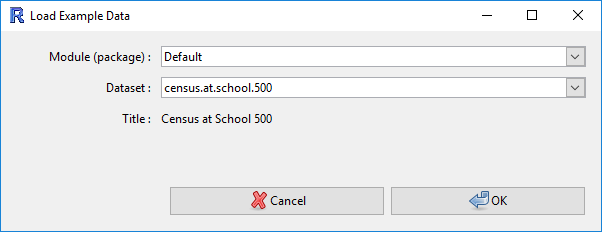
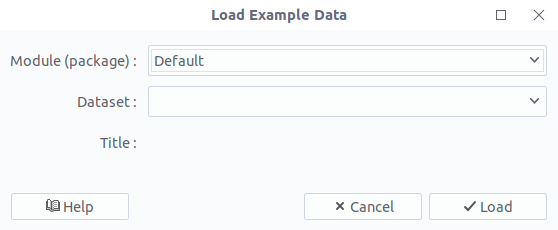
first graphs and plot1var

diff --git a/assets/scss/_styles_docs.scss b/assets/scss/_styles_docs.scss
@@ -1,30 +1,34 @@
 figure {
-    display: flex;
-    flex-direction: column;
-    align-items: center;
+  display: flex;
+  flex-direction: column;
+  align-items: center;
+
+  img {
+    box-shadow: 0px 5px 10px #00000040;
+  }
 }
 
 .breadcrumb-nav {
-    display: flex !important;
-    justify-content: space-between;
+  display: flex !important;
+  justify-content: space-between;
 
-    .version-toggle {
-        .toggle-desktop {
-            // border-bottom: solid 2px $secondary;
-            font-weight: bold;
-        }
-        .toggle-lite {
-            color: gray;
-            &:hover {
-                color: $secondary;
-            }
-        }
+  .version-toggle {
+    .toggle-desktop {
+      // border-bottom: solid 2px $secondary;
+      font-weight: bold;
     }
+    .toggle-lite {
+      color: gray;
+      &:hover {
+        color: $secondary;
+      }
+    }
+  }
 }
 
 .version--desktop {
-    display: initial;
+  display: initial;
 }
 .version--lite {
-    display: none;
+  display: none;
 }

diff --git a/layouts/shortcodes/nextpage.html b/layouts/shortcodes/nextpage.html
@@ -1,0 +1,16 @@
+{{ $scratch := newScratch }}
+    {{ range $index, $element := $.Page.CurrentSection.Pages.ByWeight }}
+        {{ if (eq $.Page.Params.weight .Params.weight) }}
+            {{ $scratch.Set "nextIndex" (add 1 $index)}}
+        {{ end }}
+    {{ end }}
+{{ with index $.Page.CurrentSection.Pages.ByWeight ($scratch.Get "nextIndex") }}
+<hr />
+<div class="text-right">
+    <a href="{{ .Permalink }}" class="btn btn-secondary">
+        {{ .Params.title | title }}
+        <span style="display:inline-block;width:0.5em;"></span>
+        <i class="fas fa-arrow-circle-right"></i>
+    </a>
+</div>
+{{ end}}

diff --git a/content/docs/basics/load-data/index.md b/content/docs/basics/load-data/index.md
@@ -13,7 +13,7 @@ iNZight lets you import your own data, either stored locally on your machine or 
 
 ### Loading your own data
 
-If you have a data set you would like to load into iNZight, go to the __File__ menu
+If you have a data set you would like to load into iNZight, go to the **File** menu
 and select {{% inzversion desktop="__Import Data__." lite="__Import Dataset__." %}} This will open the following {{% inzversion desktop="window:" lite="screen:" %}}
 
 {{% inzdesktop %}}
@@ -25,13 +25,11 @@ and select {{% inzversion desktop="__Import Data__." lite="__Import Dataset__." 
 
 Use the **Browse** button to search for a file on your computer, or provide a URL to a file on a remote server. Once you have chosen your file, iNZight will display a preview of your data. If it looks OK, click {{% inzversion desktop="__Import__" lite="__Import file from URL__" %}} to load the data into iNZight.
 
-
-
 ### Using an example dataset
 
-To make it even easier to get started with iNZight and learn data techniques, we have provided some example datasets for you to load quickly.These  are used in the examples throughout the website so you can easily follow along.
+To make it even easier to get started with iNZight and learn data techniques, we have provided some example datasets for you to load quickly.These are used in the examples throughout the website so you can easily follow along.
 
-To load an example data set, go to the __File__ menu and click {{% inzversion desktop="__Example data ...__." lite="__Dataset Examples__." %}} You'll be presented with this window:
+To load an example data set, go to the **File** menu and click {{% inzversion desktop="__Example data ...__." lite="__Dataset Examples__." %}} You'll be presented with this window:
 
 {{% inzdesktop %}}
 {{< figure src="example_data.png" alt="Load example data into iNZight" >}}
@@ -39,8 +37,7 @@ To load an example data set, go to the __File__ menu and click {{% inzversion de
 {{% inzlite %}}
 {{< figure src="example_data_lite.png" alt="Load example data into iNZight" >}}
 {{% /inzlite %}}
-In the example above, we've selected the "Census at School 500" dataset from the Default iNZight module. We will be using this dataset a lot for many of our examples. Click {{% inzversion desktop="__OK__" lite="__Select set__" %}} to load the data into iNZight. {{% inzversion lite="You can now head to __Visualize__ to start creating graphs." %}}
-
+In the example above, we've selected the "Census at School 500" dataset from the Default iNZight module. We will be using this dataset a lot for many of our examples. Click {{% inzversion desktop="__Load__" lite="__Select set__" %}} to load the data into iNZight. {{% inzversion lite="You can now head to __Visualize__ to start creating graphs." %}}
 
 ## Creating your first graph
 
@@ -48,9 +45,9 @@ In the example above, we've selected the "Census at School 500" dataset from the
 Once the data is loaded, iNZight will display the spreadsheet in the left-hand panel of the main window, like this:
 {{< figure src="inzight_cas.png" alt="iNZight with the Census at School 500 data loaded" width="800" >}}
 
-{{% note "If you load a dataset with too many variables and/or rows, iNZight only displays a list of variable names. Click __Dataset__ > __View full dataset__ to get a spreadsheet view in this case." %}}
+{{% note "iNZight only displays a subset of rows at a time, and you can move up and down the dataset using the 'Up' and 'Down' buttons below the spreadsheet. If you want to load the full spreadsheet,  __Dataset__ > __View full dataset__ will give you one in a new windows for you to explore." %}}
 
-Now you're ready to create your first graph! The variable names at the top of the spreadsheet view are draggable---go ahead and try dragging __"travel"__ onto the Variable 1 box underneath (labeled "Select/Drag-drop Variable 1"). Congratulations---you've created a **bar chart** of `travel`, which is exactly the best way of graphing this type of ***categorical*** variable!
+Now you're ready to create your first graph! The variable names at the top of the spreadsheet view are draggable---go ahead and try dragging **"travel"** onto the Variable 1 box underneath (labeled "Select/Drag-drop Variable 1"). Congratulations---you've created a **bar chart** of `travel`, which is exactly the best way of graphing this type of **_categorical_** variable!
 
 {{< figure src="inzight_cas_travel.png" alt="A bar chart of travel" width="800" >}}
 
@@ -63,16 +60,15 @@ When you first open the **Visualize** screen, iNZight will automatically graph t
 {{% /inzlite %}}
 
 {{% tip "Categorical variables" %}}
-These are variables that have distinct *categories*, *levels*, or *groups*. In the example above, the variable `travel` can take values such as "bike" or "bus". These might also be referred to as **factor** or **qualitative** variables.
+These are variables that have distinct _categories_, _levels_, or _groups_. In the example above, the variable `travel` can take values such as "bike" or "bus". These might also be referred to as **factor** or **qualitative** variables.
 {{% /tip %}}
-
 
 {{% inzdesktop %}}
 {{% /inzdesktop %}}
 
-{{% inzversion desktop="Another way of " lite="To graph another variable, simply click the dropdown box under **Select first variable:** and choose another variable, for example `height`." %}} 
+{{% inzversion desktop="Another way of choosing variables is to select them directly from the **Select variable** dropdown. For example, click the first variable box (currently labeled `travel`) and choose `height` from the dropdown." lite="To graph another variable, simply click the dropdown box under **Select first variable:** and choose another variable, for example `height`." %}}
 
-This produces a **dot plot** in which all of the 500 student heights are "dropped" onto the graph and allowed to stack if the land on top of an existing point. This is a great way of looking a **numeric variables** and how their values are distributed.
+You will now see a **dot plot** in which all of the 500 students' heights are "dropped" onto the graph and allowed to stack if they land on top of an existing point. This is a great way of looking at **numeric variables** to see how the values are distributed.
 {{% inzdesktop %}}
 {{< figure src="inzight_cas_height.png" alt="A dot plot of height" width="800" >}}
 {{% /inzdesktop %}}
@@ -81,32 +77,32 @@ This produces a **dot plot** in which all of the 500 student heights are "droppe
 {{% /inzlite %}}
 
 {{% tip "Numeric variables" %}}
-These are variables that have values which can be *measured* or *counted*. In the example above, the variable `height` can take any positive value as measured using a ruler. These might also be referred to as **continuous** or **quantitative** variables.
+These are variables that have values which can be _measured_ or _counted_. In the example above, the variable `height` can take any positive value as measured using a ruler. These might also be referred to as **continuous** or **quantitative** variables.
 
 If you get confused between **quantitative** and **qualitative** variables, just remember qua**n**titative variables are **n**umbers!
 {{% /tip %}}
-
 
 ## Now it's your turn!
 
 Create some graphs of different variables (just using Variable 1 for now) and think about what you're seeing: is the variable **categorical** or **numeric**? Can you find anything interesting? You could try answering these questions:
 
 1. What is the most popular way students in this sample get their lunch?<br/>
-  *Hint: the variable called `getlunch` tells us where each student gets their lunch from.*
+   _Hint: the variable called `getlunch` tells us where each student gets their lunch from._
 2. Some students spend more on their monthly phone bills than others: what was the most a student spends, on average?<br/>
-  *Hint: students monthly spends are contained in a variable called `cellcost`.*
+   _Hint: students monthly spends are contained in a variable called `cellcost`._
 3. What is the most common age of students in the sample?
 4. When it comes to mode of `travel`, do more students walk to school or catch the bus (or is it too hard to tell)?
-
-
+<!--
 ## Video demonstration
 
-The following ___video___ demonstrates this process to load the data set
-_Census at School-500.csv_ which you can find in the __Data__ folder
+The following **_video_** demonstrates this process to load the data set
+_Census at School-500.csv_ which you can find in the **Data** folder
 that came with iNZight.
 
 {{% alert title="Note" color="info" %}}
 The video was made using an older version of iNZight, so there will be some minor differences in the appearance.
 {{% /alert %}}
 
-{{< youtube og88LeHxupA >}}
+{{< youtube og88LeHxupA >}} -->
+
+{{% nextpage %}}

diff --git a/content/docs/basics/plot1var/index.md b/content/docs/basics/plot1var/index.md
@@ -5,14 +5,96 @@ description: Working with one variable at a time - the "Variable 1" box
 ---
 
 
-Using iNZight, it is easy to create a graph of your variables. Simply __drag and drop__ a variable name into the "Variable 1" slot, and iNZight will automatically draw the appropriate graph depending on the type of variable:
+As we saw in the previous section, it is easy to create a graph with iNZight. Simply {{% inzversion desktop="__drag and drop__ variables from the spreadsheet view to the variable boxes, or choose them directly " lite="choose a variable" %}} from the variable box drop-downs---iNZight will automatically create a graph for you!
 
-- __Numeric variables__: these will produce a __dot plot__.
+- __Numeric variables__ produce a __dot plot__ (by default)
 
-- __Categorical variables__: also referred to as __factors__, these will produce a __bar plot__.
+- __Categorical variables__ (or __factors__) produce a __bar plot__
 
-You can also obtain a numeric summary of the variable by clicking the __Get Summary__ button at the bottom of the iNZight window. Note that you have to have dragged a variable into Variable 1 first.
+In this section, we will learn how to obtain textual summaries of the information displayed in the plot, as well as learn about other ways of visualising single variables with iNZight.
 
+{{% alert title="Tutorial catch-up" color="secondary" %}}
+If you skipped the previous section, you can catch up by loading the __Census at School 500__ dataset from {{% inzversion desktop="__File__ > __Example datasets__." lite="__File__ > __Dataset examples__." %}}
+{{% /alert %}}
+
+## Numeric variables
+
+Numeric variables are those that are __measured__ or __counted__ and represented using whole (1, 2, -25, 2021) or decimal (12.5, 10.35) numbers, for example _height_, _age_, or the amount of money spent on a mobile bill per month.
+
+To look at the distribution of students' armspans, choose `armspan` as the first variable. You should see a _dot plot_ of the 500 students' armspans appear.
+
+{{% inzdesktop %}}
+{{< figure src="inzight_cas_armspan.png" alt="A dot plot of armspan" width="800" >}}
+{{% /inzdesktop %}}
+{{% inzlite %}}
+{{< figure src="inzight_cas_armspan_lite.png" alt="A dot plot of height" width="800" >}}
+{{% /inzlite %}}
+
+Immediately we can see that most students have armspans between 130 and 180 cm. However, there are many students who have measured their armspans to be as small as 20cm! Below the dotplot is a __box and whisker plot__, showing the range (the thin horizontal line), as well as the 25%, 50%, and 75% quantiles (the lower, middle, and upper ends of the box, respectively).
+
+You can obtain a numeric summary of a graph by clicking the {{% inzversion desktop="__Get Summary__ button at the bottom of the iNZight window." lite="__Summary__ button above the plot." %}}
+
+{{< figure src="inzight_cas_summary_armspan.png" alt="Numeric summary of armspan" width="600" >}}
+
+This tells us the range of values (minimum and maximum values), the quantiles, as well as the sample mean and standard deviation. In addition to this at the top of the summary output, we see information about the variable: it is telling us that our __Primary variable of interest__ (armspan) is a numeric variable, and that of the 500 students in the dataset, 36 are missing observations of armspan. This missing value information is also available at the bottom of the plot.
+
+
+Have a look at some other numeric variables in the dataset (height, rightfoot, age, year, cellcost). Look at the graph and think about what it means: can you see anything interesting? Look at the summary information for each variable to get familiar with the information provided.
+
+
+#### Advanced: More than just dot plots {#other-numeric-plots}
+
+Dot plots are OK, but you may have noticed that some variables provide odd-looking plots due to the way the points fall. iNZight provides a selection of alternative plot types for you to look at numeric variables!
+
+To do this, click on {{% inzversion desktop="__Add to plot__ in the plot toolbar, or find it in the __Plot__ menu." lite="__Add to Plot__ in the top-left of the screen." %}} You'll see a panel appear with a lot of new controls in it. Don't worry about most of these for now---we will cover them later! For now, just focus on the __Plot type__ control at the top. Choose different plot types in this drop down and look at the resulting plot. In this example below, I've chosen the "Violin" plot.
+
+{{% inzdesktop %}}
+{{< figure src="inzight_cas_armspan_violin.png" alt="A violin plot of armspan" width="800" >}}
+{{% /inzdesktop %}}
+{{% inzlite %}}
+{{< figure src="inzight_cas_armspan_violin_lite.png" alt="A violin plot of armspan" width="800" >}}
+{{% /inzlite %}}
+
+{{% alert title="Feeling adventurous?" color="secondary" %}}
+Feel free to play with the other controls in this window and see what happens!
+
+If you get lost or confused, you can reset the plot by clicking {{% inzversion desktop="__Remove additions__ in the plot toolbar, or find it in the __Plot__ menu and clicking __Remove all__ at the bottom of the panel." lite="__Restore defaults__ at the bottom of the __Select Variables__ panel." %}}
+{{% /alert %}}
+
+
+## Categorical variables
+
+Categorical variables are those that have values which fall into __categories__ (or __levels__). For example, the way students travel to school might be by _bus_, _car_, or _walk_. A person's ethnicity is another example of categorical variable, as is a student's grade in an exam ("A", "B", "C", or "Excellence", "Merit", etc).
+
+Graphs of categorical variables involve displaying how many observations fall into each category, which is by default shown using a __bar chart__ in iNZight. Let's look at a graph of `travel`:
+
+{{% inzdesktop %}}
+{{< figure src="../load-data/inzight_cas_travel.png" alt="A bar plot of travel" width="800" >}}
+{{% /inzdesktop %}}
+{{% inzlite %}}
+{{< figure src="../load-data/inzight_cas_travel_lite.png" alt="A bar plot of travel" width="800" >}}
+{{% /inzlite %}}
+
+Immediately we can see that most students travel via motor (typically a car), and equal numbers either catch a bus or walk. Only a few students catch a train.
+
+As before, we can get a numeric summary of the graph by clicking {{% inzversion desktop="__Get Summary__." lite="__Summary__." %}}
+
+{{< figure src="inzight_cas_summary_travel.png" alt="Numeric summary of travel" width="600" >}}
+
+Here we can see both the actual counts in each category, as well as the percentage in each. On the far right we see the total of 500 students. Note that there are no missing observations in this variable!
+
+You can now look at all of the variables in the dataset. The categorical variables you can look at are _getlunch_, _gender_[^1], and _cellsource_. Take a look at these---can you find anything interesting?
+
+[^1]: In the Census at School dataset bundled with iNZight, _gender_ is treated as a __binary__ variable (two levels). More recent versions of the survey have added 'Non-binary' as a choice (yay!), and in future we will try an replace the dataset bundled with iNZight with a more up-to-date one!
+
+#### Advanced: More than just bar charts {#other-categorical-plots}
+
+As before, you can use the __Add to Plot__ panel to explore different ways of looking at categorical variables. Try looking through some of these. Can you see any patterns in some that aren't quite so obvious in others?
+
+That completes single variable plots with iNZight. We are now ready to move on to looking at two variables at once!
+
+
+<!--
 The following ___video___ demonstrates how to use iNZight to plot a single variable.
 {{% alert title="Note" color="info" %}}
 The video was made using an older version of iNZight, so there will be some minor differences in the appearance.
@@ -32,4 +114,6 @@ The video was made using an older version of iNZight, so there will be some mino
 
 3. __Click and drag__ the variable _cellsource_ to the __Variable 1__ slot to produce a bar plot.
 
-4. Click the __Get Summary__ button to get a text summary of the graph.
+4. Click the __Get Summary__ button to get a text summary of the graph. -->
+
+{{% nextpage %}}

diff --git a/content/docs/basics/_index.md b/content/docs/basics/_index.md
@@ -5,7 +5,7 @@ weight: 10
 description: "Learn how to start iNZight, import a data set, and create your first graphs"
 ---
 
-The easiest way to learn to use iNZight is simply to use it! We've created the interface to be as simple and self-explanatory as possible, with most of the *thinking* done by the program so you don't have to. This guide is aimed at first-time users---if that's you, keep reading! To find out more about what something does, you might want to try looking through [The Interface](/docs/interface) pages.
+The easiest way to learn to use iNZight is simply to use it! We've created the interface to be as simple and self-explanatory as possible, with most of the _thinking_ done by the program so you don't have to. This guide is aimed at first-time users---if that's you, keep reading! To find out more about what something does, you might want to try looking through [The Interface](/docs/interface) pages.
 
 You're currently viewing documentation for the {{< inzversion desktop="Desktop" lite="Lite" >}} version of iNZight. You can change this at any time using the switcher in the top-right of the screen.
 
@@ -16,7 +16,7 @@ To get started, start up iNZight Lite by heading to: https://lite.docker.stat.au
 {{< /inzlite >}}
 
 {{< inzdesktop >}}
-To get started, you will first need to download the software onto your computer. Head to the [downloads](/download) page, and then come back and continue with this tutorial. 
+To get started, you will first need to download the software onto your computer. Head to the [downloads](/download) page, and then come back and continue with this tutorial.
 
 After downloading the installer, double-click to run it and follow the on-screen instructions. If you leave the defaults, iNZight will be installed to `C:\Program Files\iNZightVIT` (but you can change this if you wish). The installer will create a folder in your Documents folder and add desktop shortcuts.
 
@@ -25,31 +25,28 @@ For other operating systems, follow the instructions on the downloads page (this
 ### Starting iNZight (on Windows)
 
 When you installed iNZight, the installer should have created desktop icons.
-Just double-click on __iNZight__ to launch the program.
+Just double-click on **iNZight** to launch the program.
 
-Alternatively, you can start iNZight by going to __Start__ &gt; __iNZightVIT__ (you might need to go to All Programs first) &gt; __iNZight__.
+Alternatively, you can start iNZight by going to **Start** &gt; **iNZightVIT** (you might need to go to All Programs first) &gt; **iNZight**.
 
 When iNZight first opens, here's what it will look like:
 
 {{< figure src="inzight.png" alt="The iNZight window" width="800" >}}
 
-
 ### Updating iNZight (on Windows)
 
 The Windows installer includes an updater for iNZight. To Update, you can either
 
-1. Go to __Start__ > __All files__ > __iNZightVIT__, and click __Update__, or
+1. Go to **Start** > **All files** > **iNZightVIT**, and click **Update**, or
 
-2. Assuming you installed iNZight to the default directory, go to __My Documents__ > __iNZightVIT__ and double-click __Update__. This is shown below:
+2. Assuming you installed iNZight to the default directory, go to **My Documents** > **iNZightVIT** and double-click **Update**. This is shown below:
 
 {{< figure src="update.png" alt="Update iNZight script location" width="800" >}}
 
-3. If you can't find the __iNZightVIT__ folder in either of those locations, go to the directory where you installed iNZight. If you didn't install iNZight, you might need to ask your system administrator to do it for you.
+3. If you can't find the **iNZightVIT** folder in either of those locations, go to the directory where you installed iNZight. If you didn't install iNZight, you might need to ask your system administrator to do it for you.
 
-
-***
+---
 
 Now that iNZight is installed, you're ready to import some data and create some graphs!
 
 {{< /inzdesktop >}}
-
